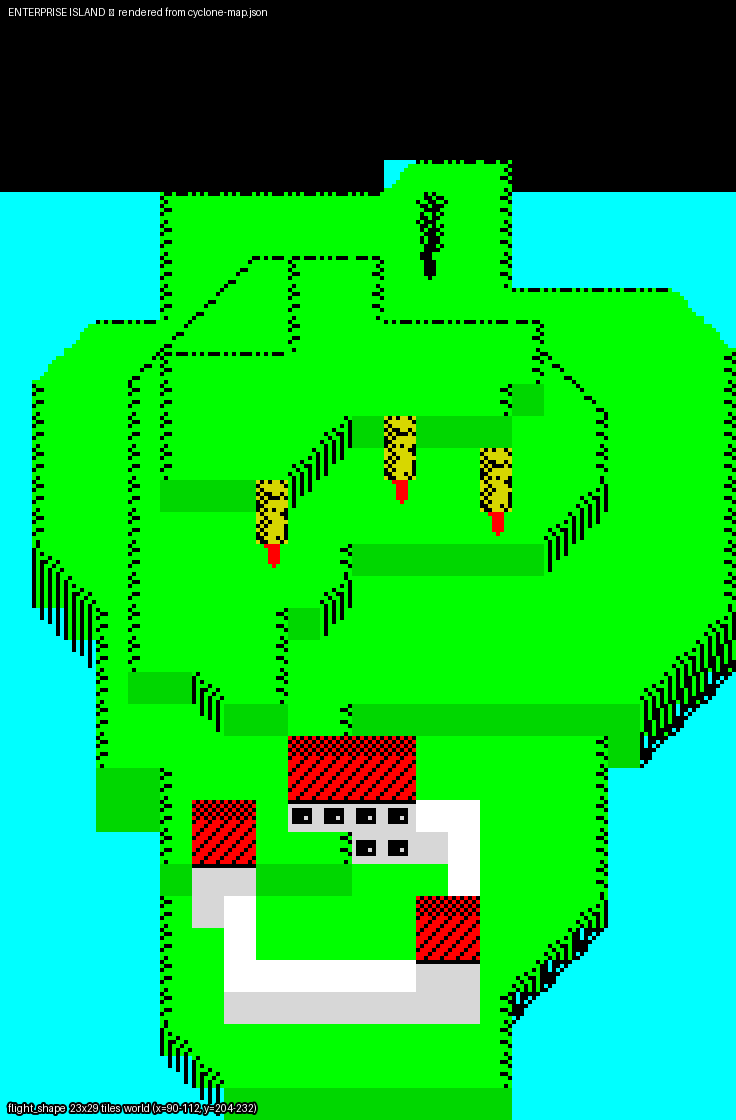
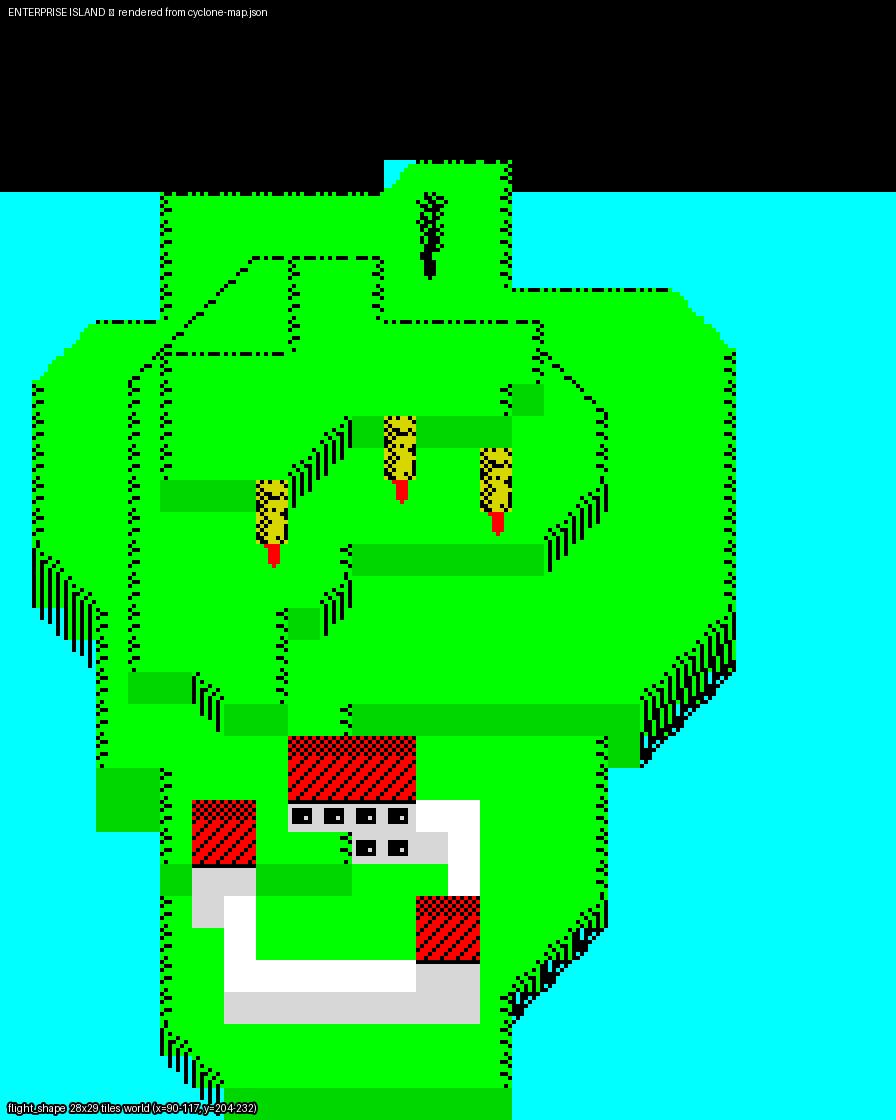
Extract per-island flight shape over the full data_x range
extract_flight_shape() previously emitted only a 23×29 viewport at
shape_base, which cropped islands wider than 23 cols (KOKOLA's data
spans 31 cols, so cols 23..30 with terrain past x=131 were dropped
and island-kokola_island.png appeared cut on the right).

Use the per-record data column extent instead — rec[+0x06] (data_x_min)
to rec[+0x07] (data_x_max) — keeping FLIGHT_VIEW_ROWS=29 rows from
y_origin.  This is the union of every column the engine ever reads
for the island as the helicopter sweeps helX from x_min to x_max,
and stays within the island's own shape bytes (so it doesn't bleed
into BANANA/GIANTS GATEWAY/GILLIGANS' tightly packed neighbours the
way the full helicopter rectangle does).

Re-render all 14 islands from the regenerated cyclone-map.json.

https://claude.ai/code/session_018pbYWuUSDSE2DMriZh4rQJ

diff --git a/tools/extract_map.py b/tools/extract_map.py
@@ -190,19 +190,23 @@ def extract_flight_shape(ram: bytes, rec_idx: int, all_records: list) -> dict:
         HL = shape_base + (helY - IX+$08) * 128 + (helX - IX+$06)
     into the working buffer at $F74E, with HL advancing 128 bytes per row.
 
-    With the helicopter parked at the island's origin (helX=IX+$06,
-    helY=IX+$08) HL is exactly shape_base, so the engine reads the
-    canonical 23×29 layout the loader placed there for THIS island.
-    Cell (col c, row r) of the window represents world tile
-    (x_origin + c, y_origin + r).
+    The shape-data column extent is stored per record: rec[+$06] is
+    data_x_min (= x_min + 22) and rec[+$07] is data_x_max (= x_max - 22).
+    As the helicopter sweeps helX from x_min to x_max, the 23-col LDIR
+    window slides across this whole [data_x_min..data_x_max] range, so
+    the union of every column the engine ever reads for THIS island is
+    exactly that range.  Row-wise the engine always reads 29 rows
+    starting at y_origin = rec[+$08], so the natural data extent is
+    [y_origin .. y_origin + 28].
 
-    The earlier approach swept the full helicopter-flight rectangle
-    (e.g. 77×57 for BANANA) and masked foreign-claimed addresses with a
-    geometric "closest-centre" heuristic. The flight engine never reads
-    that rectangle: only this 23×29 window is ever projected, and the
-    sparse non-zero bytes for BANANA, GIANTS GATEWAY and GILLIGANS land
-    at disjoint column ranges within their respective windows, so no
-    masking is needed.
+    Earlier iterations either extracted only the 23×29 window at
+    shape_base (which crops islands wider than 23 cols, e.g. KOKOLA at
+    31 cols) or swept the full helicopter rectangle (which on islands
+    whose shape_base regions are densely packed — BANANA $9300,
+    GIANTS GATEWAY $9337, GILLIGANS $9354 — pulls in neighbouring
+    islands' shape data as garbage and forced a "closest-centre" mask).
+    Using the per-record data_x range and 29 rows from y_origin avoids
+    both: it stays inside this island's data, and captures all of it.
     """
     def get(addr):
         a = addr & 0xFFFF
@@ -211,22 +215,25 @@ def extract_flight_shape(ram: bytes, rec_idx: int, all_records: list) -> dict:
     rec = all_records[rec_idx]
     shape_base = rec[0x0A] | (rec[0x0B] << 8)
     x_origin = rec[0x06]
+    data_x_max = rec[0x07]
     y_origin = rec[0x08]
+
+    cols = data_x_max - x_origin + 1
 
     rows = []
     for r in range(FLIGHT_VIEW_ROWS):
         row = []
-        for c in range(FLIGHT_VIEW_COLS):
+        for c in range(cols):
             addr = (shape_base + r * FLIGHT_VIEW_STRIDE + c) & 0xFFFF
             row.append(get(addr))
         rows.append(row)
 
     return {
-        "world_x_range": [x_origin, x_origin + FLIGHT_VIEW_COLS - 1],
+        "world_x_range": [x_origin, data_x_max],
         "world_y_range": [y_origin, y_origin + FLIGHT_VIEW_ROWS - 1],
         "x_origin": x_origin,
         "y_origin": y_origin,
-        "view_cols": FLIGHT_VIEW_COLS,
+        "view_cols": cols,
         "view_rows": FLIGHT_VIEW_ROWS,
         "y_stride_bytes": FLIGHT_VIEW_STRIDE,
         "tiles": rows,
